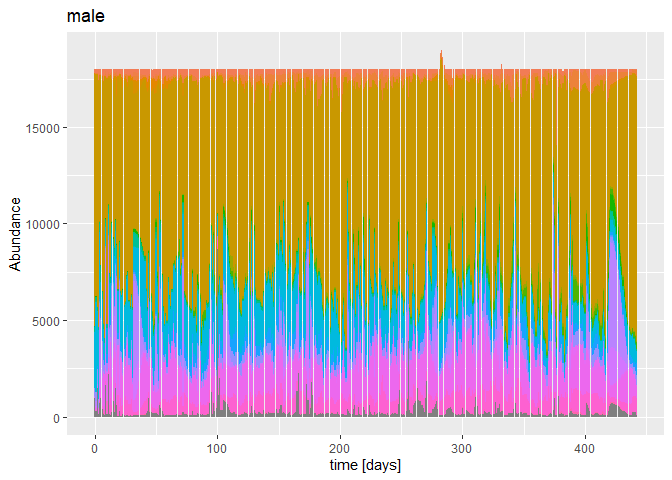
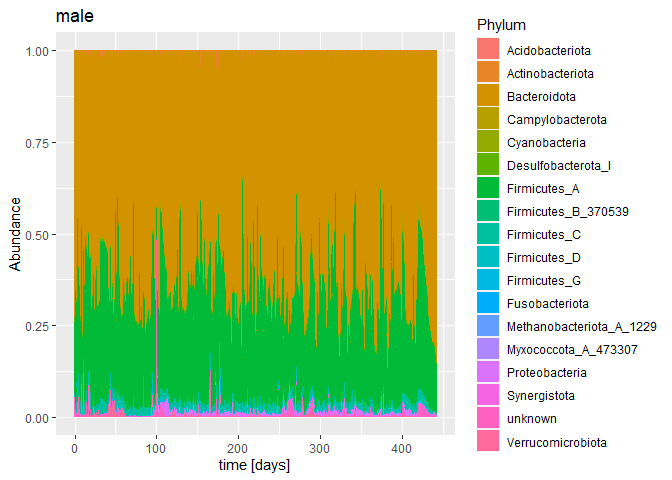
add relative counts and aggregation at phylum level

diff --git a/explore/01d-timeseries-HumanGutData-Karwowska-paper.md b/explore/01d-timeseries-HumanGutData-Karwowska-paper.md
@@ -1,6 +1,6 @@
 01d-timeseries-HumanGutData-Karwowska-paper
 ================
-Compiled at 2023-07-31 15:14:52 UTC
+Compiled at 2023-08-24 07:13:58 UTC
 
 ``` r
 here::i_am(paste0(params$name, ".Rmd"), uuid = "4435c437-d4bf-4c0c-a851-45bef7011c59")
@@ -15,6 +15,7 @@ library("conflicted")
 library(tidyverse)
 library(data.table)
 library(phyloseq)
+library(microViz)
 ```
 
 ``` r
@@ -64,10 +65,15 @@ for(subject in four_subjects){
   
   tax_cols <-
     c("Kingdom", "Phylum", "Class", "Order", "Family", "Genus", "Species")
-  tmp[, (tax_cols) := tstrsplit(Taxon, ";")] %>% 
-    .[, (tax_cols) := lapply(.SD, sub, pattern = ".*__", replacement = ""), 
-      .SDcols =  tax_cols] %>% 
-    .[, Taxon := NULL]
+  tmp[, (tax_cols) := tstrsplit(Taxon, ";")] %>%
+    # remove "d__", "p__", etc. in front of taxonomic ranks
+    .[, (tax_cols) := lapply(.SD, sub, pattern = ".*__", replacement = ""),
+      .SDcols =  tax_cols] %>%
+    # remove columns that contain listed taxonomic ranks and confidence value
+    .[, c("Taxon", "Confidence") := NULL]
+  # replace NAs with "unknown"
+  tmp[is.na(tmp)] <- "unknown"
+  
   assign(paste0("tax_", subject),
          tmp)
 }
@@ -104,6 +110,54 @@ for(subject in four_subjects){
 }
 ```
 
+``` r
+ps_donorA
+```
+
+    ## phyloseq-class experiment-level object
+    ## otu_table()   OTU Table:         [ 1524 taxa and 365 samples ]
+    ## tax_table()   Taxonomy Table:    [ 1524 taxa by 7 taxonomic ranks ]
+
+``` r
+ps_donorB
+```
+
+    ## phyloseq-class experiment-level object
+    ## otu_table()   OTU Table:         [ 1569 taxa and 253 samples ]
+    ## tax_table()   Taxonomy Table:    [ 1569 taxa by 7 taxonomic ranks ]
+
+``` r
+ps_male
+```
+
+    ## phyloseq-class experiment-level object
+    ## otu_table()   OTU Table:         [ 1253 taxa and 443 samples ]
+    ## tax_table()   Taxonomy Table:    [ 1253 taxa by 7 taxonomic ranks ]
+
+``` r
+ps_female
+```
+
+    ## phyloseq-class experiment-level object
+    ## otu_table()   OTU Table:         [ 551 taxa and 185 samples ]
+    ## tax_table()   Taxonomy Table:    [ 551 taxa by 7 taxonomic ranks ]
+
+## Transform counts to relative abundances
+
+``` r
+ps_donorA <-
+  transform_sample_counts(ps_donorA, function(x) x / sum(x) )
+
+ps_donorB <-
+  transform_sample_counts(ps_donorB, function(x) x / sum(x) )
+
+ps_male <-
+  transform_sample_counts(ps_male, function(x) x / sum(x) )
+
+ps_female <-
+  transform_sample_counts(ps_female, function(x) x / sum(x) )
+```
+
 ## Plot Phyloseq
 
 ``` r
@@ -111,9 +165,9 @@ for(subject in four_subjects){
 for(subject in four_subjects){
   plt_tmp <-
     ggplot(psmelt(get(paste0("ps_", subject))),
-           aes(as.numeric(Sample), Abundance, fill = Family)) +
+           aes(as.numeric(Sample), Abundance, fill = Phylum)) +
     geom_bar(stat = "identity")  +
-    theme(legend.position = "none") +
+    # theme(legend.position = "none") +
     labs(title = subject,
          x = "time [days]")
   print(plt_tmp)
@@ -134,6 +188,118 @@ for(subject in four_subjects){
 # }
 ```
 
+## Summarize counts per taxonomic level
+
+Aggregate the timeseries by summarizing counts over a taxonomic level.
+
+### Pyhlum level
+
+``` r
+tax_level = "Phylum"
+
+for(subject in four_subjects){
+  tmp_ps <-
+    get(paste0("ps_", subject)) %>%
+    # summarize over Phylum, include NAs
+    tax_glom(taxrank = tax_level, NArm = FALSE) %>% 
+    # tax_fix(sep = "_") %>% 
+    speedyseq::transmute_tax_table(Kingdom, Phylum, .otu = get(tax_level))
+  
+  assign(paste0("ps_", subject, "_", tax_level),
+         tmp_ps)
+}
+```
+
+``` r
+# bar plot phyloseq objects
+for(subject in four_subjects){
+# subject = "female"
+  plt_tmp <-
+    plot_bar(get(paste0("ps_", subject, "_", tax_level)),
+             x = "as.numeric(Sample)",
+             fill = tax_level) +
+    theme(legend.position = "none") +
+    labs(title = subject,
+         x = "Time [days]")
+  print(plt_tmp)
+}
+```
+
+![](01d-timeseries-HumanGutData-Karwowska-paper_files/figure-gfm/unnamed-chunk-5-1.png)<!-- -->![](01d-timeseries-HumanGutData-Karwowska-paper_files/figure-gfm/unnamed-chunk-5-2.png)<!-- -->![](01d-timeseries-HumanGutData-Karwowska-paper_files/figure-gfm/unnamed-chunk-5-3.png)<!-- -->![](01d-timeseries-HumanGutData-Karwowska-paper_files/figure-gfm/unnamed-chunk-5-4.png)<!-- -->
+
+``` r
+ps_donorA_Phylum
+```
+
+    ## phyloseq-class experiment-level object
+    ## otu_table()   OTU Table:          [ 27 taxa and 365 samples ]:
+    ## tax_table()   Taxonomy Table:     [ 27 taxa by 2 taxonomic ranks ]:
+    ## taxa are rows
+
+``` r
+ps_donorB_Phylum
+```
+
+    ## phyloseq-class experiment-level object
+    ## otu_table()   OTU Table:          [ 25 taxa and 253 samples ]:
+    ## tax_table()   Taxonomy Table:     [ 25 taxa by 2 taxonomic ranks ]:
+    ## taxa are rows
+
+``` r
+ps_male_Phylum
+```
+
+    ## phyloseq-class experiment-level object
+    ## otu_table()   OTU Table:          [ 18 taxa and 443 samples ]:
+    ## tax_table()   Taxonomy Table:     [ 18 taxa by 2 taxonomic ranks ]:
+    ## taxa are rows
+
+``` r
+ps_female_Phylum
+```
+
+    ## phyloseq-class experiment-level object
+    ## otu_table()   OTU Table:          [ 11 taxa and 185 samples ]:
+    ## tax_table()   Taxonomy Table:     [ 11 taxa by 2 taxonomic ranks ]:
+    ## taxa are rows
+
+### Class level
+
+``` r
+tax_level = "Class"
+
+for(subject in four_subjects){
+  tmp_ps <-
+    get(paste0("ps_", subject)) %>%
+    # summarize over Phylum, include NAs
+    tax_glom(taxrank = tax_level, NArm = FALSE) %>% 
+    tax_fix(sep = "_") %>%
+    speedyseq::transmute_tax_table(Kingdom, Phylum, Class, .otu = get(tax_level))
+  
+  assign(paste0("ps_", subject, "_", tax_level),
+         tmp_ps)
+}
+```
+
+## Save phyloseq objects as csv file
+
+``` r
+for(subject in four_subjects) {
+  tmp_output <-
+    t(otu_table(get(paste0("ps_", subject, "_Phylum"))))
+  write.csv(
+    data.frame(Time = as.numeric(rownames(tmp_output)), tmp_output),
+    paste0(
+      path_target(),
+      "/ts_",
+      subject,
+      "_Phylumlevel_rel_count.csv"
+    ),
+    row.names = F
+  )
+}
+```
+
 ## Files written
 
 These files have been written to the target directory,
@@ -143,6 +309,10 @@ These files have been written to the target directory,
 projthis::proj_dir_info(path_target())
 ```
 
-    ## # A tibble: 0 × 4
-    ## # ℹ 4 variables: path <fs::path>, type <fct>, size <fs::bytes>,
-    ## #   modification_time <dttm>
+    ## # A tibble: 4 × 4
+    ##   path                                type         size modification_time  
+    ##   <fs::path>                          <fct> <fs::bytes> <dttm>             
+    ## 1 ts_donorA_Phylumlevel_rel_count.csv file        69.9K 2023-08-24 07:15:07
+    ## 2 ts_donorB_Phylumlevel_rel_count.csv file        48.5K 2023-08-24 07:15:07
+    ## 3 ts_female_Phylumlevel_rel_count.csv file        31.2K 2023-08-24 07:15:07
+    ## 4 ts_male_Phylumlevel_rel_count.csv   file        87.4K 2023-08-24 07:15:07
